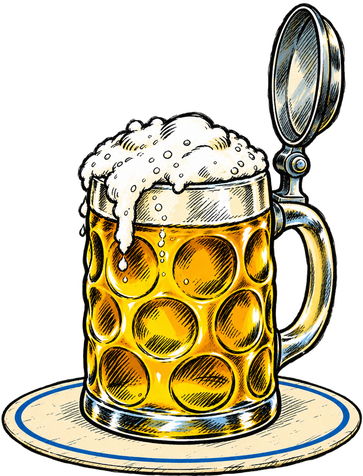
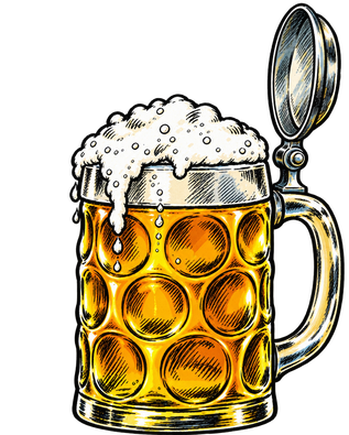
Save screen: beer tent at table height, choices under the mugs
r94/r95: beer tent background like Anthony's photo and three lidded mugs
drawn at its angle. The open mug's Play / Profile Settings / Delete and a
closed mug's name sit under it (SaveMugs.csv name_text and menu rows).

Claude-Session: https://claude.ai/code/session_01GrbNTwVienMcpmsk1Pgq12

diff --git a/guides/DESIGNER_MANUAL.md b/guides/DESIGNER_MANUAL.md
@@ -7679,25 +7679,25 @@ own look so they still read as what they are. The plank keeps its corners
 at any button size; only its middle stretches.
 
 **Beer mug save screen (19 Oct 2026, Anthony: "Three different beer mugs
-(that are the save file) large on a table").** The `slot` rows now draw a
-drawn beer hall (`assets/ui/save/mugs/beer_hall.png`, r91: no bar, no people),
-then a massive table (`table.png`, r92: its planks run to the same far point as the floorboards) and a football leaning on the last mug
-(`ball.png`). Every button is the drawn plank from the title screen
-(`button_plank_drawn.png`, `Scale` 1 = drawn smooth at its own size; blank or
-2 = a pixel plank drawn at 2x). The old pixel layers stay in
-`assets/ui/save/pixellab/`.
+(that are the save file) large on a table").** The `slot` rows draw a beer
+tent seen from table height, like his photo (`assets/ui/save/mugs/beer_tent.png`,
+r94-r95: a long table running into the tent under strings of lights), and a
+football leaning on the last mug (`ball.png`). Every button is the drawn plank
+from the title screen (`button_plank_drawn.png`, `Scale` 1 = drawn smooth at
+its own size; blank or 2 = a pixel plank drawn at 2x). The old pixel layers
+stay in `assets/ui/save/pixellab/`.
 
 The three mugs ARE the save files, set in **`data/SaveMugs.csv`**:
 
 | Part | what it sets |
 |---|---|
-| `closed_full`, `open_full`, `closed_empty` | Image = the mug pictures: a full foaming mug is a used save, an empty glass is an empty slot, the open lid shows when you click a used mug |
-| `slot` (one row per save, top = slot 1) | X, Y = where the bottom middle of the mug's beer mat stands on the 1920 x 1080 screen |
-| `mat_text` | Y = how far up from the mug's bottom the "Slot 1 · 3 matches" line sits on the beer mat; Size = its letter size |
-| `menu` | X = how far right of the mug the choices stand (they go left if there is no room); Size = letter size |
+| `closed_full`, `open_full`, `closed_empty` | Image = the mug pictures (r95): a full mug is a used save, an empty glass is an empty slot, the open lid shows when you click a used mug |
+| `slot` (one row per save, top = slot 1) | X, Y = the bottom middle of the mug on the 1920 x 1080 screen |
+| `name_text` | under a closed mug, "Slot 1 · 3 matches" on a see-through dark backing: Y = the gap below the mug, Size = letter size |
+| `menu` | under an open mug (Anthony: "have the options be on the bottom"): X = button width, Y = gap below the mug, Size = letter size |
 
 **Click a mug:** its lid opens and Play / Profile Settings / Delete appear
-beside it (an empty mug offers only Play, which starts a new game). Click it
+under it (an empty mug offers only Play, which starts a new game). Click it
 again to close it.
 
 **Profile Settings vs General Settings.** Each save keeps its own settings in
